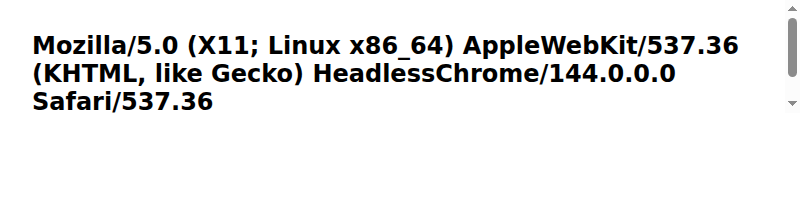
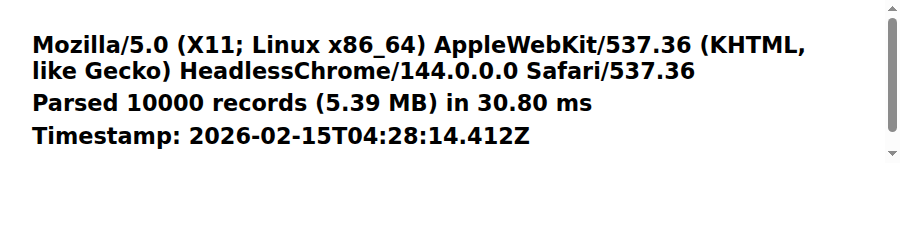
Add JSON parse benchmark and expand to 10 Chrome releases
Update print-chrome-info.sh to generate a ~5.4 MB JSON document
(10,000 records), load it via XHR, and time JSON.parse(). The page
now displays user agent, parse duration, and timestamp. Removes all
V8/CDP plumbing in favour of a single --screenshot + --dump-dom
invocation with --allow-file-access-from-files.

Rerun for Chrome 136-145 and regenerate the markdown report.

https://claude.ai/code/session_01SBQ62czEagjiF9t2yvcRP5

Changed region(s): [[0.0312, 0.12, 0.9375, 0.6], [0.9688, 0.03, 1.0, 0.51], [0.9688, 0.6, 1.0, 0.63]]

diff --git a/chrome-user-agents.md b/chrome-user-agents.md
@@ -1,6 +1,28 @@
-# Chrome User Agents — 5 Most Recent Releases
+# Chrome JSON Benchmark — Last 10 Releases
 
-Screenshots captured from Chrome for Testing running in headless mode.
+Each Chrome for Testing build loads and parses a ~5.4 MB JSON document
+(10,000 records) in headless mode. The screenshots show the user agent
+string, parse duration, and execution timestamp.
+
+## Chrome 136 (136.0.7103.113) — 2025-04-29
+
+![Chrome 136](screenshots/chrome-136.png)
+
+## Chrome 137 (137.0.7151.119) — 2025-05-27
+
+![Chrome 137](screenshots/chrome-137.png)
+
+## Chrome 138 (138.0.7204.183) — 2025-06-24
+
+![Chrome 138](screenshots/chrome-138.png)
+
+## Chrome 139 (139.0.7258.154) — 2025-08-05
+
+![Chrome 139](screenshots/chrome-139.png)
+
+## Chrome 140 (140.0.7339.207) — 2025-09-02
+
+![Chrome 140](screenshots/chrome-140.png)
 
 ## Chrome 141 (141.0.7390.122) — 2025-09-30
 
